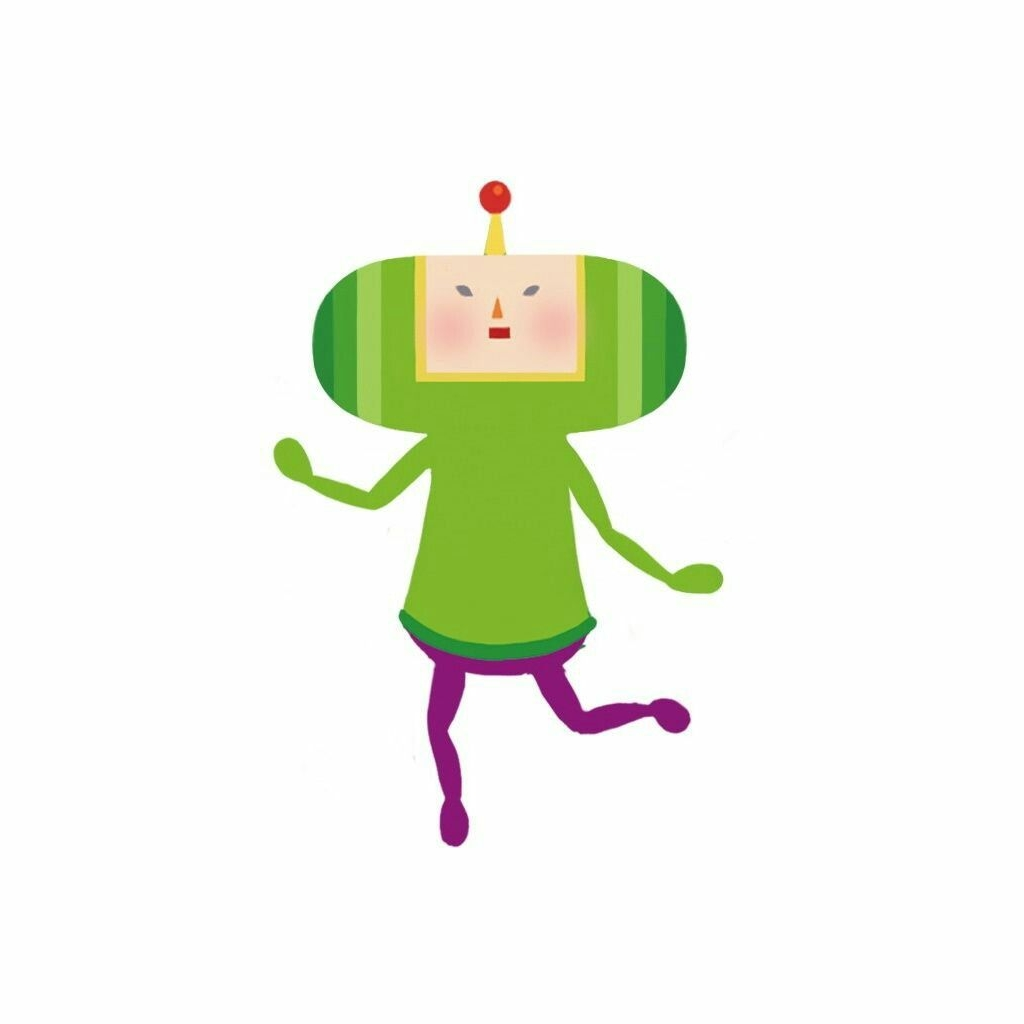
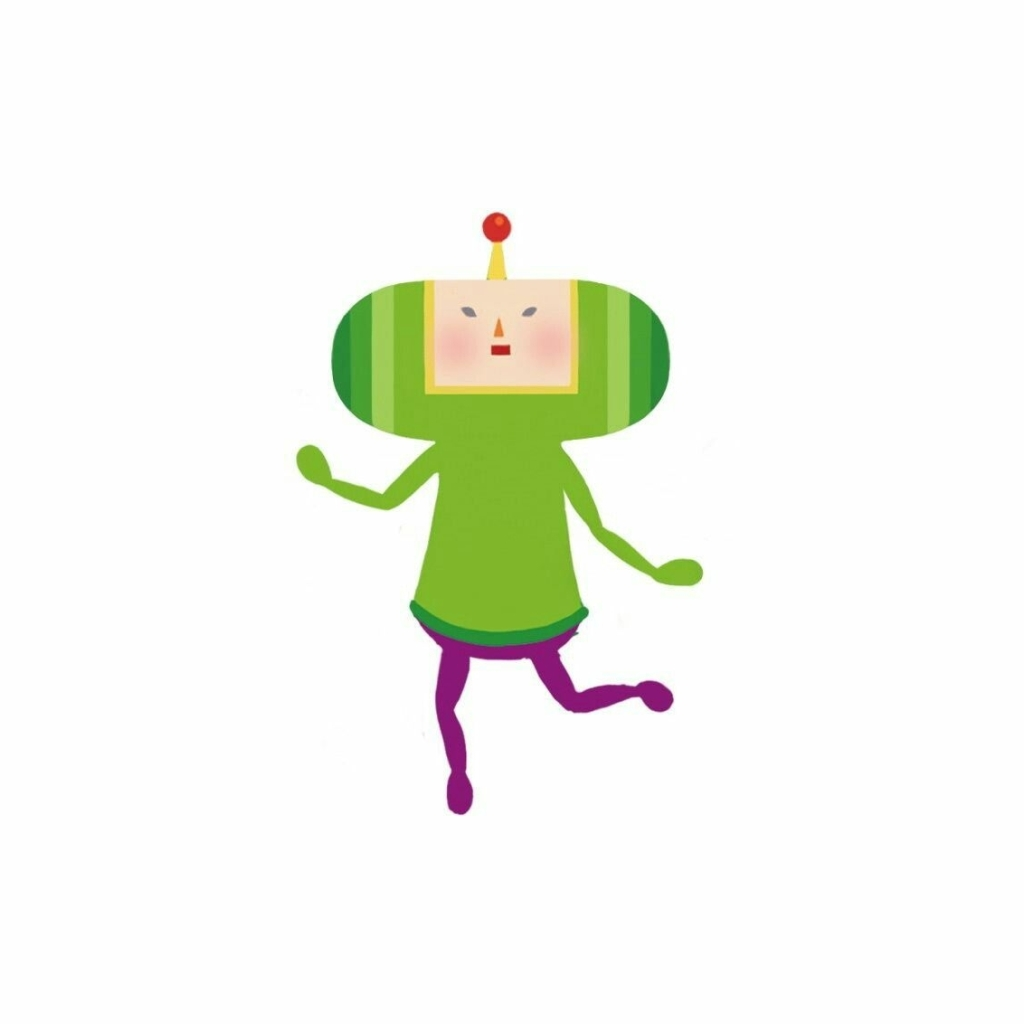
Character Design: Added Scrolling with Direction Keys

Changed region(s): [[0.25, 0.1562, 0.7188, 0.8438]]

diff --git a/others/character-design/cd-01.html b/others/character-design/cd-01.html
@@ -1,5 +1,5 @@
 <!DOCTYPE html>
-<html>
+<html onkeydown="Change_Frame(event)">
 <head>
 	<meta charset="utf-8">
 	<meta name="viewport" content="width=device-width, initial-scale=1">
@@ -42,7 +42,7 @@
 
 		.frame {
 			width: 100%;
-			height: 90vh;
+			height: 100vh;
 			background-color: white;
 
 			display: flex;
@@ -164,12 +164,12 @@
 		<h3>The Situation</h3>
 	</div>
 	<!-- Similar -->
-	<div class="frame fade">
+	<div class="frame">
 		<div id="similar01" class="three-col"></div>
 		<div id="similar02" class="three-col"></div>
 		<div id="similar03" class="three-col"></div>
 	</div>
-	<div class="frame fade">
+	<div class="frame">
 		<div id="similar04" class="three-col"></div>
 		<div id="similar05" class="three-col"></div>
 		<div id="similar06" class="three-col"></div>
@@ -179,12 +179,12 @@
 		<h2>The Goal</h2>
 	</div>
 	<!-- Distinct -->
-	<div class="frame fade">
+	<div class="frame">
 		<div id="distinct01" class="three-col"></div>
 		<div id="distinct02" class="three-col"></div>
 		<div id="distinct03" class="three-col hover-full"></div>
 	</div>
-	<div class="frame fade">
+	<div class="frame">
 		<div id="distinct04" class="three-col"></div>
 		<div id="distinct05" class="three-col"></div>
 		<div id="distinct06" class="three-col"></div>
@@ -196,40 +196,40 @@
 		</h2>
 	</div>
 	<!-- Examples -->
-	<div class="frame fade">
+	<div class="frame">
 		<div id="e1" class="full"></div>
 	</div>
-	<div class="frame fade">
+	<div class="frame">
 		<div id="e2" class="full"></div>
 	</div>
-	<div class="frame fade">
+	<div class="frame">
 		<div id="e3" class="full"></div>
 	</div>
-	<div class="frame fade">
+	<div class="frame">
 		<div id="e4" class="full"></div>
 	</div>
-	<div class="frame fade">
+	<div class="frame">
 		<div id="e5" class="full"></div>
 	</div>
-	<div class="frame fade">
+	<div class="frame">
 		<div id="e6" class="full"></div>
 	</div>
-	<div class="frame fade">
+	<div class="frame">
 		<div id="e7" class="full"></div>
 	</div>
-	<div class="frame fade">
+	<div class="frame">
 		<div id="e8" class="full"></div>
 	</div>
-	<div class="frame fade">
+	<div class="frame">
 		<div id="e9" class="full"></div>
 	</div>
-	<div class="frame fade">
+	<div class="frame">
 		<div id="e10" class="full"></div>
 	</div>
-	<div class="frame fade">
+	<div class="frame">
 		<div id="e11" class="full"></div>
 	</div>
-	<div class="frame fade">
+	<div class="frame">
 		<div id="e12" class="full"></div>
 	</div>
 
@@ -237,22 +237,22 @@
 	<div class="frame title">
 		<h2>Exercise: Circles</h2>
 	</div>
-	<div class="frame fade">
+	<div class="frame">
 		<div id="c1" class="full"></div>
 	</div>
-	<div class="frame fade">
+	<div class="frame">
 		<div id="c2" class="full"></div>
 	</div>
-	<div class="frame fade">
+	<div class="frame">
 		<div id="c3" class="full"></div>
 	</div>
-	<div class="frame fade">
+	<div class="frame">
 		<div id="c4" class="full"></div>
 	</div>
-	<div class="frame fade">
+	<div class="frame">
 		<div id="c5" class="full"></div>
 	</div>
-	<div class="frame fade">
+	<div class="frame">
 		<div id="c6" class="full"></div>
 	</div>
 
@@ -260,22 +260,22 @@
 	<div class="frame title">
 		<h2>Exercise: Triangles</h2>
 	</div>
-	<div class="frame fade">
+	<div class="frame">
 		<div id="t1" class="full"></div>
 	</div>
-	<div class="frame fade">
+	<div class="frame">
 		<div id="t2" class="full"></div>
 	</div>
-	<div class="frame fade">
+	<div class="frame">
 		<div id="t3" class="full"></div>
 	</div>
-	<div class="frame fade">
+	<div class="frame">
 		<div id="t4" class="full"></div>
 	</div>
-	<div class="frame fade">
+	<div class="frame">
 		<div id="t5" class="full"></div>
 	</div>
-	<div class="frame fade">
+	<div class="frame">
 		<div id="t6" class="full"></div>
 	</div>
 
@@ -283,22 +283,22 @@
 	<div class="frame title">
 		<h2>Exercise: Stretched Circles</h2>
 	</div>
-	<div class="frame fade">
+	<div class="frame">
 		<div id="sc1" class="full"></div>
 	</div>
-	<div class="frame fade">
+	<div class="frame">
 		<div id="sc2" class="full"></div>
 	</div>
-	<div class="frame fade">
+	<div class="frame">
 		<div id="sc3" class="full"></div>
 	</div>
-	<div class="frame fade">
+	<div class="frame">
 		<div id="sc4" class="full"></div>
 	</div>
-	<div class="frame fade">
+	<div class="frame">
 		<div id="sc5" class="full"></div>
 	</div>
-	<div class="frame fade">
+	<div class="frame">
 		<div id="sc6" class="full"></div>
 	</div>
 
@@ -318,6 +318,27 @@
 			<h2 style="font-weight: normal;"><li>Interpret as you Go</li></h2>
 		</ul>
 	</div>
+
+	<script type="text/javascript">
+		let html = document.querySelector("html");
+		let frames = document.querySelectorAll(".frame");
+		let curr_frame = 0;
+		function Change_Frame(event) {
+			let key = event.key;
+			if (key == "ArrowLeft") {
+				if (curr_frame > 0) curr_frame--;
+				let next = frames[curr_frame].offsetTop;
+				html.scrollTop = next;
+				console.log(html.scrollTop);
+			}
+			else if (key == "ArrowRight") {
+				if (curr_frame < frames.length - 1) curr_frame++;
+				let next = frames[curr_frame].offsetTop;
+				html.scrollTop = next;
+				console.log(html.scrollTop);
+			}
+		}
+	</script>
 </body>
 
 </html>